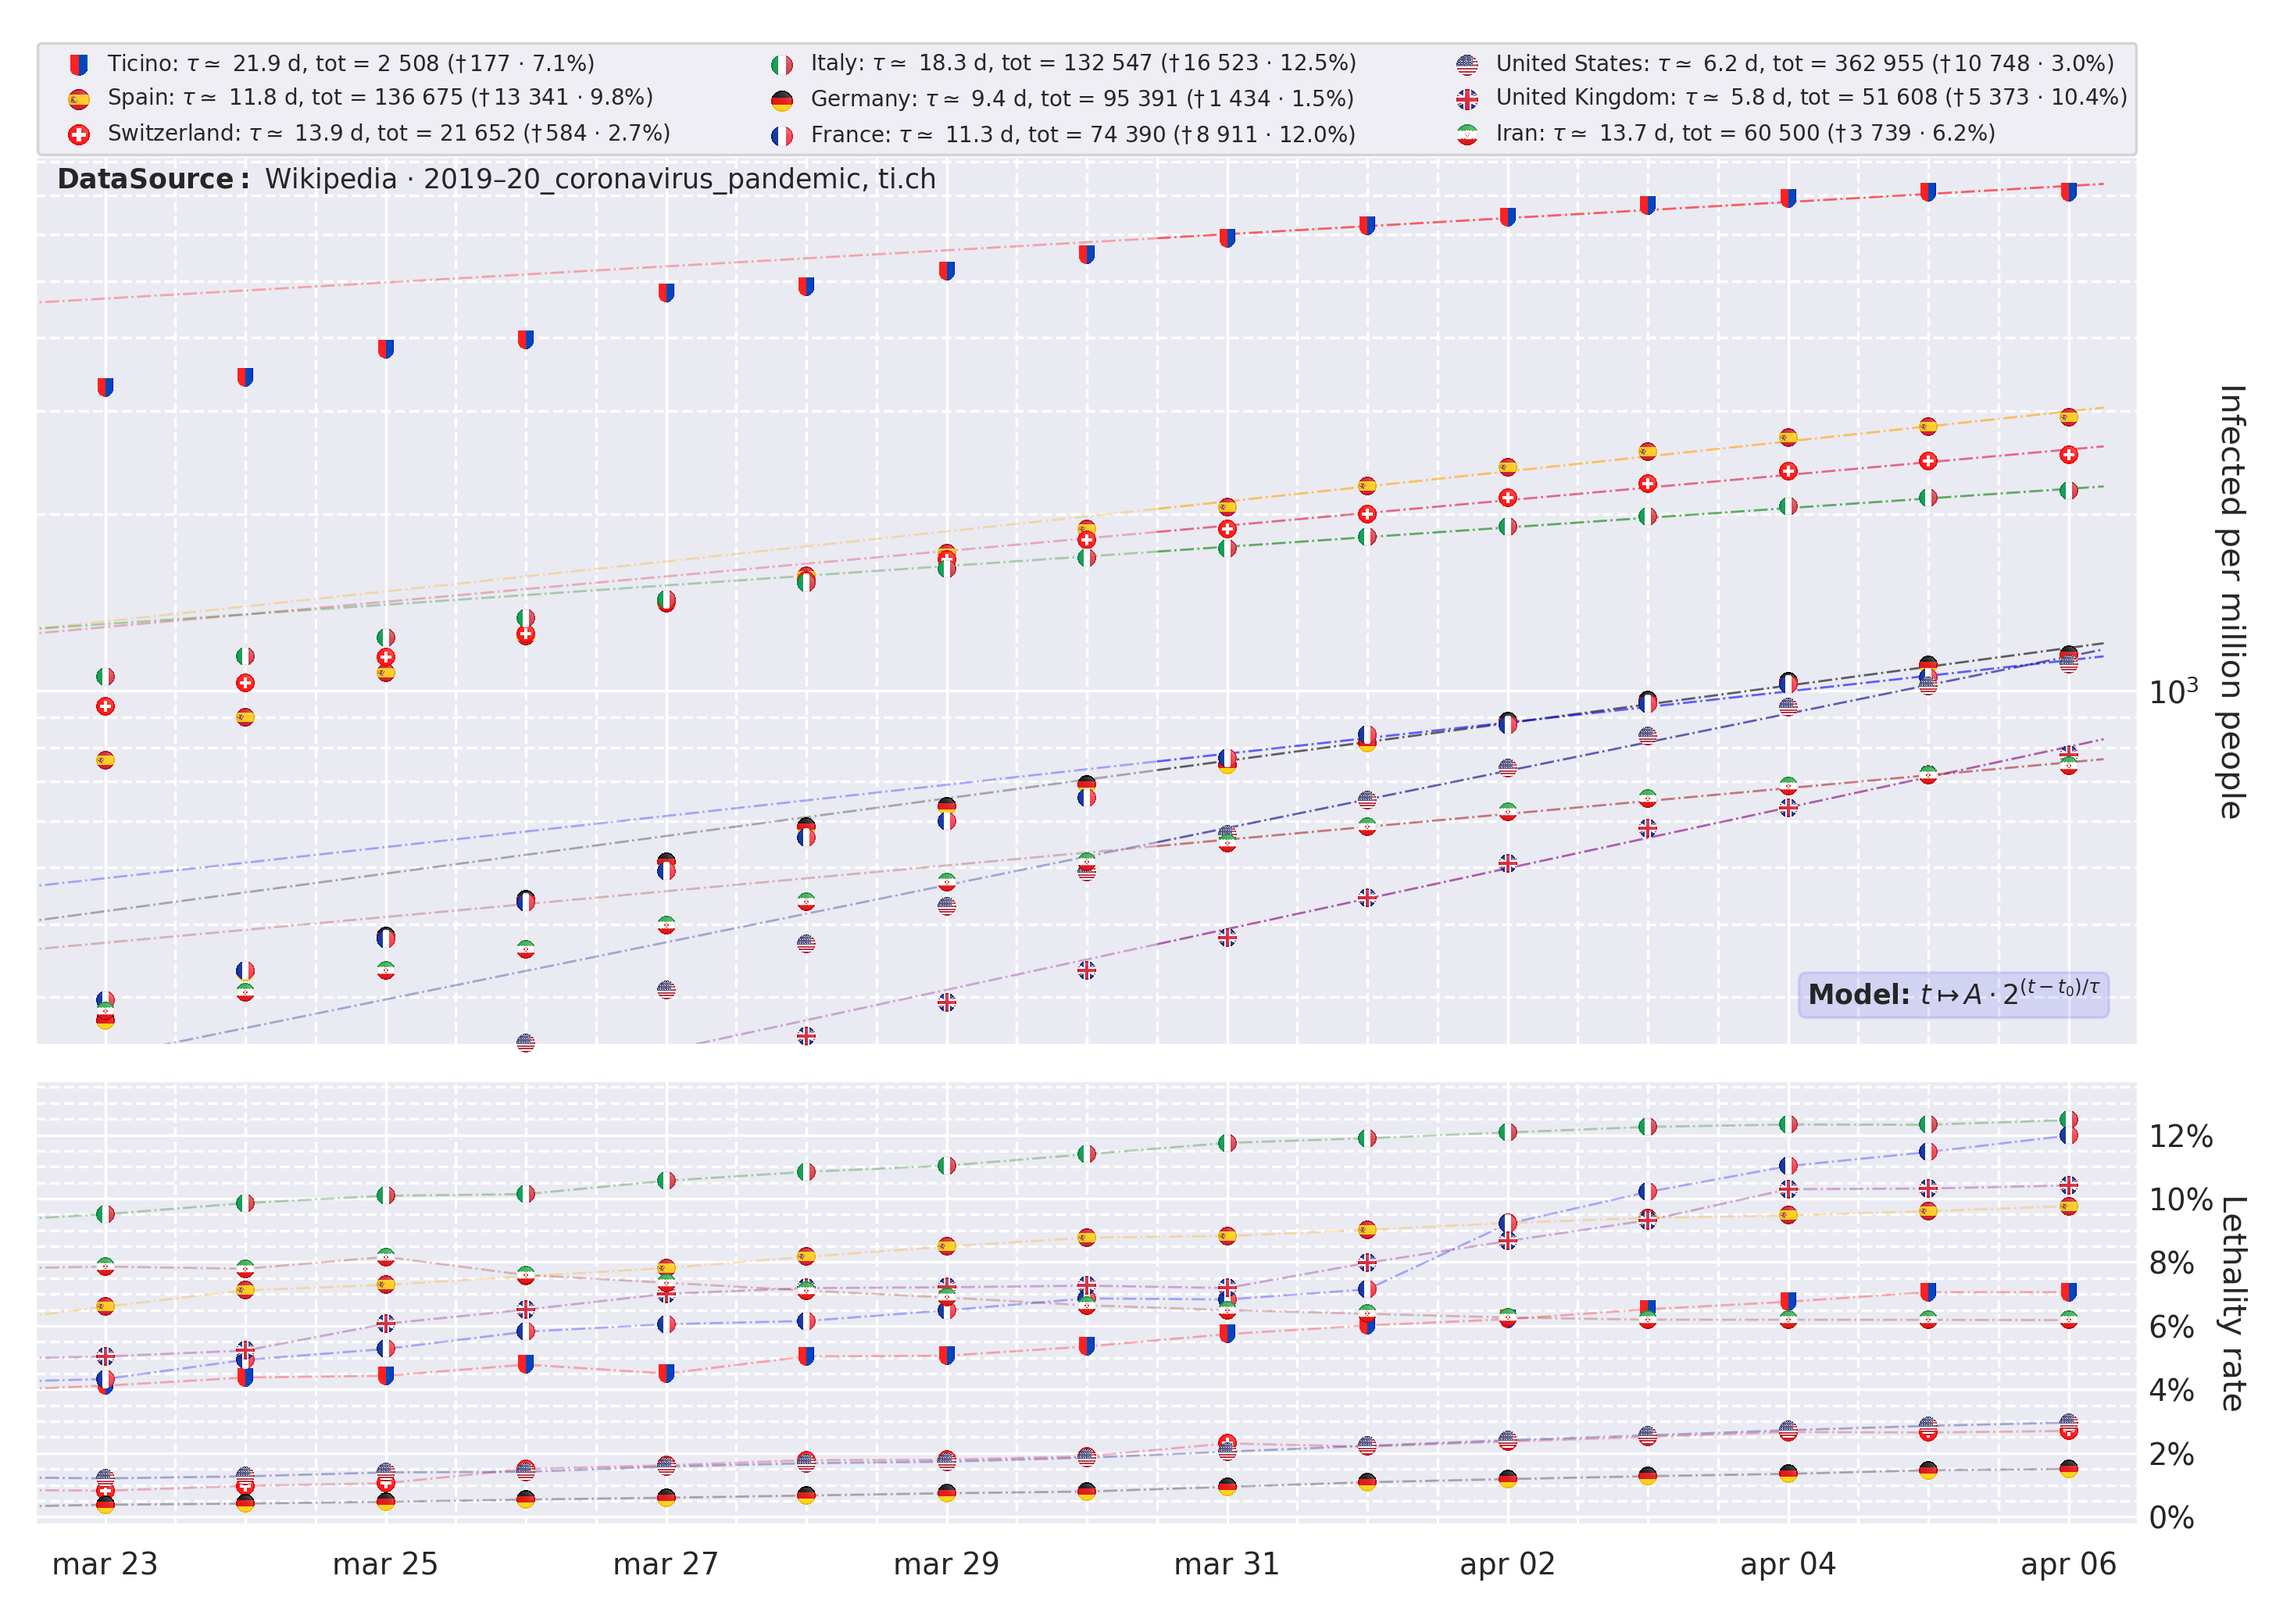
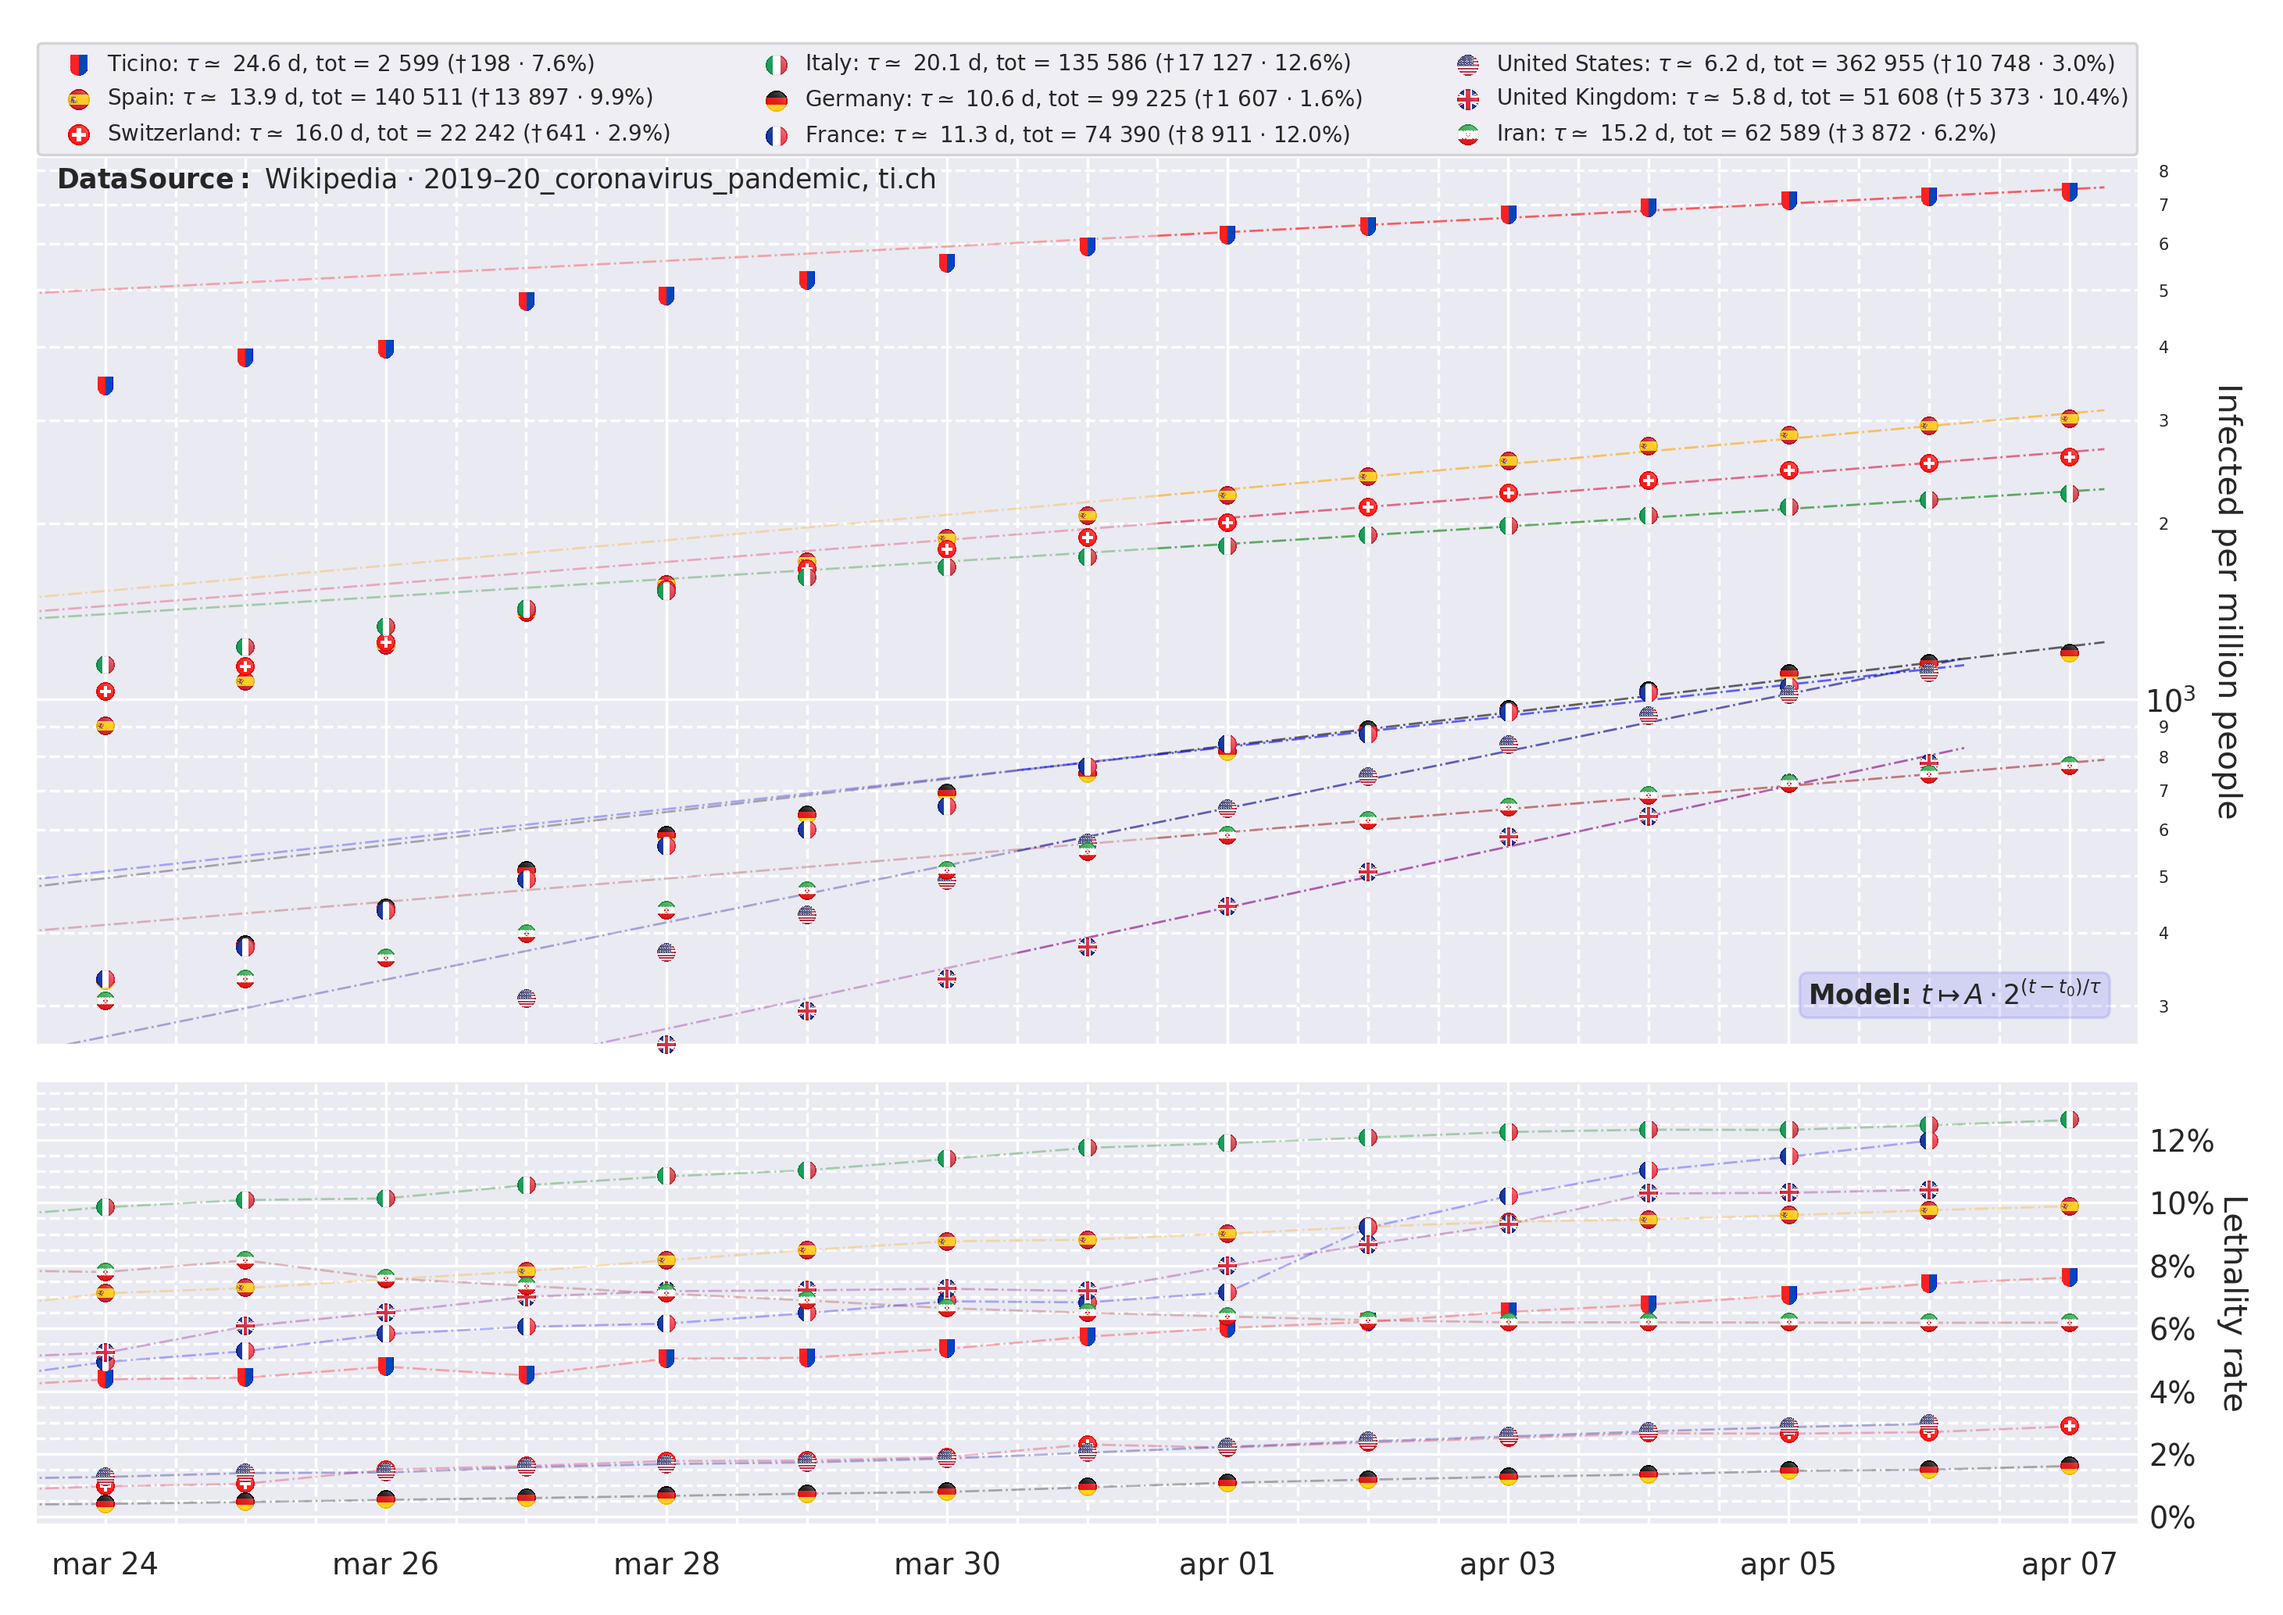
minor commit

diff --git a/Coronavirus/coronavirus.py b/Coronavirus/coronavirus.py
@@ -8,7 +8,7 @@ from sklearn.linear_model import LinearRegression
 from pandas.plotting import register_matplotlib_converters
 import seaborn as sns
 from corona_libs import *
-
+from matplotlib.ticker import FormatStrFormatter
 sns.set()
 register_matplotlib_converters()
 
@@ -164,6 +164,11 @@ ax1.set_ylim(bottom=country_ds["density"].min()/3)
 ax1.set_ylim(top=country_ds["density"].max()*1.15)
 ax1.yaxis.tick_right()
 ax1.tick_params(axis="y", which="both", length=0)
+ax1.tick_params(axis="y", which="major", pad=2)
+ax1.tick_params(axis="y", which="minor", labelsize=6, pad=7)
+ax1.yaxis.set_minor_formatter(
+    ticker.FuncFormatter(lambda y, _: f"{str(y)[0]}")
+)
 ax1.set_ylabel("Infected per million people", rotation=270, labelpad=17)
 ax1.yaxis.set_label_position("right")
 
